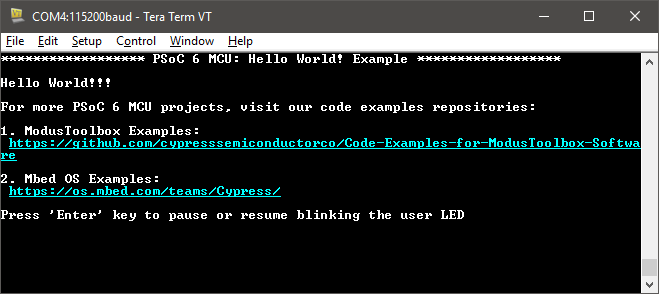
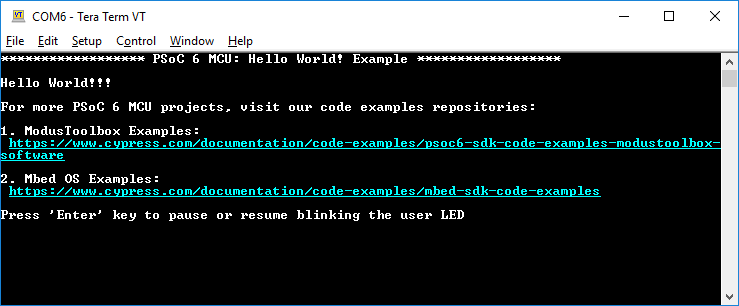
Updated latest-v1.X

Changed region(s): [[0.0, 0.0, 1.0, 1.0], [0.0, 0.2449, 0.1517, 0.3061]]

diff --git a/main.c b/main.c
@@ -7,7 +7,7 @@
 * Related Document: See Readme.md
 *
 *******************************************************************************
-* (c) 2019, Cypress Semiconductor Corporation. All rights reserved.
+* (c) 2019-2020, Cypress Semiconductor Corporation. All rights reserved.
 *******************************************************************************
 * This software, including source code, documentation and related materials
 * ("Software"), is owned by Cypress Semiconductor Corporation or one of its
@@ -112,7 +112,7 @@ int main(void)
     __enable_irq();
 
     /* Initialize retarget-io to use the debug UART port */
-    result = cy_retarget_io_init(CYBSP_DEBUG_UART_TX, CYBSP_DEBUG_UART_RX, \
+    result = cy_retarget_io_init(CYBSP_DEBUG_UART_TX, CYBSP_DEBUG_UART_RX,
                                  CY_RETARGET_IO_BAUDRATE);
 
     /* retarget-io init failed. Stop program execution */
@@ -122,11 +122,10 @@ int main(void)
     }
 
     /* Initialize the User LED */
-    result = cyhal_gpio_init((cyhal_gpio_t) CYBSP_USER_LED, \
-              CYHAL_GPIO_DIR_OUTPUT, CYHAL_GPIO_DRIVE_STRONG, \
-              CYBSP_LED_STATE_OFF);
+    result = cyhal_gpio_init(CYBSP_USER_LED, CYHAL_GPIO_DIR_OUTPUT, 
+                             CYHAL_GPIO_DRIVE_STRONG, CYBSP_LED_STATE_OFF);
 
-    /* gpio init failed. Stop program execution */
+    /* GPIO init failed. Stop program execution */
     if (result != CY_RSLT_SUCCESS)
     {
         CY_ASSERT(0);
@@ -144,11 +143,11 @@ int main(void)
     printf("For more PSoC 6 MCU projects, "
            "visit our code examples repositories:\r\n\n");
 
-    printf("1. ModusToolbox Examples:\r\n https://github.com/"
-           "cypresssemiconductorco/Code-Examples-for-ModusToolbox"
-           "-Software\r\n\n");
+    printf("1. ModusToolbox Examples:\r\n https://www.cypress.com/documentation"
+            "/code-examples/psoc6-sdk-code-examples-modustoolbox-software\r\n\n");
 
-    printf("2. Mbed OS Examples:\r\n https://os.mbed.com/teams/Cypress/\r\n\n");
+    printf("2. Mbed OS Examples:\r\n https://www.cypress.com/documentation/"
+           "code-examples/mbed-sdk-code-examples\r\n\n");
 
     /* Initialize timer to toggle the LED */
     timer_init();
@@ -156,10 +155,10 @@ int main(void)
     printf("Press 'Enter' key to pause or "
            "resume blinking the user LED \r\n\r\n");
 
-    for(;;)
+    for (;;)
     {
         /* Check if 'Enter' key was pressed */
-        if(cyhal_uart_getc(&cy_retarget_io_uart_obj, &uart_read_value, 1) \
+        if (cyhal_uart_getc(&cy_retarget_io_uart_obj, &uart_read_value, 1) 
              == CY_RSLT_SUCCESS)
         {
             if (uart_read_value == '\r')
@@ -179,20 +178,20 @@ int main(void)
                 }
 
                 /* Move cursor to previous line */
-            	printf("\x1b[1F");
+                printf("\x1b[1F");
 
                 led_blink_active_flag ^= 1;
             }
         }
 
         /* Check if timer elapsed (interrupt fired) and toggle the LED */
-        if(timer_interrupt_flag)
+        if (timer_interrupt_flag)
         {
             /* Clear the flag */
             timer_interrupt_flag = false;
 
             /* Invert the USER LED state */
-            cyhal_gpio_toggle((cyhal_gpio_t) CYBSP_USER_LED);
+            cyhal_gpio_toggle(CYBSP_USER_LED);
         }
     }
 }
@@ -214,9 +213,9 @@ int main(void)
 *******************************************************************************/
  void timer_init(void)
  {
-	cy_rslt_t result;
+    cy_rslt_t result;
 
-    const cyhal_timer_cfg_t led_blink_timer_cfg = \
+    const cyhal_timer_cfg_t led_blink_timer_cfg = 
     {
         .compare_value = 0,                 /* Timer compare value, not used */
         .period = LED_BLINK_TIMER_PERIOD,   /* Defines the timer period */
@@ -228,7 +227,7 @@ int main(void)
 
     /* Initialize the timer object. Does not use pin output ('pin' is NC) and
      * does not use a pre-configured clock source ('clk' is NULL). */
-    result = cyhal_timer_init(&led_blink_timer, (cyhal_gpio_t) NC, NULL);
+    result = cyhal_timer_init(&led_blink_timer, NC, NULL);
 
     /* timer init failed. Stop program execution */
     if (result != CY_RSLT_SUCCESS)
@@ -247,8 +246,8 @@ int main(void)
     cyhal_timer_register_callback(&led_blink_timer, isr_timer, NULL);
 
     /* Set the event on which timer interrupt occurs and enable it */
-    cyhal_timer_enable_event(&led_blink_timer, CYHAL_TIMER_IRQ_TERMINAL_COUNT \
-                               , 7, true);
+    cyhal_timer_enable_event(&led_blink_timer, CYHAL_TIMER_IRQ_TERMINAL_COUNT,
+                              7, true);
 
     /* Start the timer with the configured settings */
     cyhal_timer_start(&led_blink_timer);
@@ -262,8 +261,8 @@ int main(void)
 * This is the interrupt handler function for the timer interrupt.
 *
 * Parameters:
-* 	callback_arg	Arguments passed to the interrupt callback
-*	event			Timer/counter interrupt triggers
+*    callback_arg    Arguments passed to the interrupt callback
+*    event            Timer/counter interrupt triggers
 *
 *******************************************************************************/
 static void isr_timer(void *callback_arg, cyhal_timer_event_t event)
@@ -271,7 +270,7 @@ static void isr_timer(void *callback_arg, cyhal_timer_event_t event)
     (void) callback_arg;
     (void) event;
 
-	/* Set the interrupt flag and process it from the main while(1) loop */
+    /* Set the interrupt flag and process it from the main while(1) loop */
     timer_interrupt_flag = true;
 }
 

diff --git a/README.md b/README.md
@@ -4,9 +4,9 @@ This code example demonstrates simple UART communication by printing a "Hello Wo
 
 ## Requirements
 
-- [ModusToolbox™ IDE](https://www.cypress.com/products/modustoolbox-software-environment) v2.0
+- [ModusToolbox™ software](https://www.cypress.com/products/modustoolbox-software-environment) v2.1
 - Programming Language: C
-- Associated Parts: All [PSoC® 6 MCU](http://www.cypress.com/PSoC6) parts
+- Associated Parts: All [PSoC 6 MCU](http://www.cypress.com/PSoC6) parts
 
 ## Supported Kits
 
@@ -15,10 +15,13 @@ This code example demonstrates simple UART communication by printing a "Hello Wo
 - [PSoC 6 BLE Pioneer Kit](https://www.cypress.com/CY8CKIT-062-BLE) (CY8CKIT-062-BLE)
 - [PSoC 6 BLE Prototyping Kit](https://www.cypress.com/CY8CPROTO-063-BLE) (CY8CPROTO-063-BLE)
 - [PSoC 62S2 Wi-Fi BT Pioneer Kit](https://www.cypress.com/CY8CKIT-062S2-43012) (CY8CKIT-062S2-43012)
+- [PSoC 62S1 Wi-Fi BT Pioneer Kit](https://www.cypress.com/CYW9P62S1-43438EVB-01) (CYW9P62S1-43438EVB-01)
+- [PSoC 62S1 Wi-Fi BT Pioneer Kit](https://www.cypress.com/CYW9P62S1-43012EVB-01) (CYW9P62S1-43012EVB-01)
+- [PSoC 62S3 Wi-Fi BT Prototyping Kit](https://www.cypress.com/CY8CPROTO-062S3-4343W) (CY8CPROTO-062S3-4343W)
 
 ## Hardware Setup
 
-This example uses the board's default configuration. See the kit user guide to ensure the board is configured correctly.
+This example uses the board's default configuration. See the kit user guide to ensure that the board is configured correctly.
 
 **Note**: The PSoC 6 BLE Pioneer Kit and the PSoC 6 WiFi-BT Pioneer Kit ship with KitProg2 installed. ModusToolbox software requires KitProg3. Before using this code example, make sure that the board is upgraded to KitProg3. The tool and instructions are available in the [Firmware Loader](https://github.com/cypresssemiconductorco/Firmware-loader) GitHub repository. If you do not upgrade, you will see an error like "unable to find CMSIS-DAP device" or "KitProg firmware is out of date".
 
@@ -28,31 +31,43 @@ Install a terminal emulator if you don't have one. Instructions in this document
 
 ## Using the Code Example
 
-### In ModusToolbox IDE:
+### In Eclipse IDE for ModusToolbox:
 
-1. Click the **New Application** link in the Quick Panel (or, use **File > New > ModusToolbox IDE Application**).
+1. Click the **New Application** link in the Quick Panel (or, use **File** > **New** > **ModusToolbox Application**).
 
-2. Pick a kit supported by the code example from the list shown in the **IDE Application** dialog.
+2. Pick a kit supported by the code example from the list shown in the **Project Creator - Choose Board Support Package (BSP)** dialog.
 
-   When you select a supported kit, the example is reconfigured automatically to work with the kit. To work with a different supported kit later, use the **Library Manager** to choose the BSP for the supported kit. You can use the Library Manager to select or update the BSP and firmware libraries used in this application. To access the Library Manager, right-click the application name from the Project Workspace window in the IDE, and select **ModusToolbox > Library Manager**. For more details, see the IDE User Guide: *{ModusToolbox install directory}/ide_2.0/docs/mt_ide_user_guide.pdf*.
+   When you select a supported kit, the example is reconfigured automatically to work with the kit. To work with a different supported kit later, use the **Library Manager** to choose the BSP for the supported kit. You can use the Library Manager to select or update the BSP and firmware libraries used in this application. To access the Library Manager, right-click the application name from the Project Workspace window in the IDE, and select **ModusToolbox** > **Library Manager**.
 
    You can also just start the application creation process again and select a different kit.
 
    If you want to use the application for a kit not listed here, you may need to update source files. If the kit does not have the required resources, the application may not work.
 
-3. In the **Starter Application** window, choose the example.
+3. In the **Project Creator - Choose Board Support Package (BSP)** dialog, choose the example.
 
-4. Click **Next** and complete the application creation process.
+4. Optionally, update the **Application Name:** and **Location** fields with the application name and local path where application is created.
 
-See [Importing Code Example into ModusToolbox IDE - KBA225201](https://community.cypress.com/docs/DOC-15968) for details.
+5. Click **Create** and complete the application creation process.
+
+For more details, see the Eclipse IDE for ModusToolbox User Guide: *{ModusToolbox install directory}/ide_{version}/docs/mt_ide_user_guide.pdf*.
 
 ### In Command-line Interface (CLI):
 
 1. Download and unzip this repository onto your local machine, or clone the repository.
 
-2. Open a CLI terminal and navigate to the application folder.
+2. Open a CLI terminal and navigate to the application folder. On Linux and macOS, you can use any terminal application. On Windows, navigate to the modus-shell directory (*{ModusToolbox install directory}/tools_\<version>/modus-shell*) and run Cygwin.bat.
 
 3. Import required libraries by executing the `make getlibs` command.
+
+### In Third-party IDEs:
+
+1. Follow instructions from the CLI section to download or clone the repository, and import libraries using `make getlibs` command.
+
+2. Export the application to a supported IDE using the `make <ide>` command.
+
+3. Follow instructions displayed in the terminal to create or import the application as an IDE project.
+
+For more details, see *Exporting to IDEs* section of the ModusToolbox User Guide: *{ModusToolbox install directory}/ide_{version}/docs/mtb_user_guide.pdf*.
 
 ## Operation
 
@@ -62,12 +77,13 @@ See [Importing Code Example into ModusToolbox IDE - KBA225201](https://community
 
 3. Program the board.
 
-   ### Using ModusToolbox IDE:
+   ### Using Eclipse IDE for ModusToolbox:
 
    1. Select the application project in the Project Explorer.
-   2. In the **Quick Panel**, scroll down, and click **Hello_World Program (KitProg3)**.
 
-   ### Using CLI
+   2. In the **Quick Panel**, scroll down, and click **\<Application Name> Program (KitProg3)**.
+
+   ### Using CLI:
 
    1. From the terminal, execute the `make program` command to build and program the application using the default toolchain to the default target. You can specify a target and toolchain manually:
         ```
@@ -76,9 +92,9 @@ See [Importing Code Example into ModusToolbox IDE - KBA225201](https://community
         Example:
 
         ```
-        make program TARGET=CY8CKIT-062-WIFI-BT TOOLCHAIN=GCC_ARM
+        make program TARGET=CY8CPROTO-062-4343W TOOLCHAIN=GCC_ARM
         ```
-        **Note**:  Before building the application, ensure that the *libs* folder contains the BSP file (*TARGET_xxx.lib*) corresponding to the TARGET. Execute the `make getlibs` command to fetch the BSP contents before building the application.
+        **Note**:  Before building the application, ensure that the *deps* folder contains the BSP file (*TARGET_xxx.lib*) corresponding to the TARGET. Execute the `make getlibs` command to fetch the BSP contents before building the application.
 
    After programming, the application starts automatically. Confirm that "Hello World!!!" and other text is displayed on the UART terminal as shown in [Figure 1](#figure-1-hello-world-in-terminal).
 
@@ -96,7 +112,7 @@ See [Importing Code Example into ModusToolbox IDE - KBA225201](https://community
 
 ## Debugging
 
-You can debug the example to step through the code. In the ModusToolbox IDE, use the **Hello_World Debug (KitProg3)** configuration in the **Quick Panel**. See [Debugging a PSoC 6 MCU ModusToolbox Project - KBA224621](https://community.cypress.com/docs/DOC-15763) for details.
+You can debug the example to step through the code. In the IDE, use the **\<Application Name> Debug (KitProg3)** configuration in the **Quick Panel**. For more details, see *Program and Debug* section in the Eclipse IDE for ModusToolbox User Guide: *{ModusToolbox install directory}/ide_{version}/docs/mt_ide_user_guide.pdf*.
 
 ## Design and Implementation
 
@@ -109,7 +125,7 @@ You can debug the example to step through the code. In the ModusToolbox IDE, use
 | :------- | :------------    | :------------ |
 | Timer (HAL) | led_blink_timer | Timer HAL object used for periodic interrupt generation |
 | UART (HAL) |cy_retarget_io_uart_obj| UART HAL object used by Retarget-IO for Debug UART port |
-| LED (BSP) | CYBSP_USER_LED | User LED to show output |
+| GPIO (HAL)    | CYBSP_USER_LED         |  User LED to show visual output                  |
 
 This example uses the Arm® Cortex®-M4 (CM4) CPU of PSoC 6 MCU to execute two tasks: UART communication and LED control. At device reset, the default Cortex-M0+ (CM0+) application enables the CM4 CPU and configures the CM0+ CPU to go to sleep.
 
@@ -121,7 +137,8 @@ cy_retarget_io_init(CYBSP_DEBUG_UART_TX, CYBSP_DEBUG_UART_RX, CY_RETARGET_IO_BAU
 
 After using `cy_retarget_io_init`, messages can be printed on the terminal simply using `printf` commands.
 
-A Timer HAL resource is configured to generate a periodic interrupt to set a flag, using which an LED is toggled. The `timer_init` function uses Timer HAL functions `cyhal_timer_init`, `cyhal_timer_configure` and `cyhal_timer_set_frequency` to create a Timer that counts up to `LED_BLINK_TIMER_PERIOD = 9999` using a clock configured with a frequency of `LED_BLINK_TIMER_CLOCK_HZ = 10000`. `cyhal_timer_enable_event` is used to enable generation of an event on the terminal count and `cyhal_timer_register_callback` is used to register a callback to the `isr_timer` function when the event occurs. A flag is set from the ISR, and processed in the main loop to toggle the user LED.
+A Timer HAL resource is configured to generate a periodic interrupt to set a flag, using which an LED is toggled. The `timer_init` function uses Timer HAL functions `cyhal_timer_init`, `cyhal_timer_configure` and `cyhal_timer_set_frequency` to create a Timer that counts up to `LED_BLINK_TIMER_PERIOD = 9999` using a clock configured with a frequency of `LED_BLINK_TIMER_CLOCK_HZ = 10000`. 
+`cyhal_timer_enable_event` is used to enable generation of an event on the terminal count and `cyhal_timer_register_callback` is used to register a callback to the `isr_timer` function when the event occurs. A flag is set in the ISR, and processed in the main loop to toggle the user LED.
 
 The main loop also looks for user input from the terminal using the HAL function `cyhal_uart_getc`. When the user presses the Enter key on the terminal, the LED stops blinking. Pressing Enter again resumes LED blinking, and this cycle can be repeated.
 
@@ -134,21 +151,24 @@ The main loop also looks for user input from the terminal using the HAL function
 | [AN210781](https://www.cypress.com/AN210781) – Getting Started with PSoC 6 MCU with Bluetooth Low Energy (BLE) Connectivity on PSoC Creator | Describes PSoC 6 MCU with BLE Connectivity devices and how to build your first application with PSoC Creator |
 | [AN215656](https://www.cypress.com/AN215656) – PSoC 6 MCU: Dual-CPU System Design | Describes the dual-CPU architecture in PSoC 6 MCU, and shows how to build a simple dual-CPU design |
 | **Code Examples**                                            |                                                              |
-| [Using ModusToolbox IDE](https://github.com/cypresssemiconductorco/Code-Examples-for-ModusToolbox-Software) | [Using PSoC Creator](https://www.cypress.com/documentation/code-examples/psoc-6-mcu-code-examples) |
+| [Using ModusToolbox](https://github.com/cypresssemiconductorco/Code-Examples-for-ModusToolbox-Software) | [Using PSoC Creator](https://www.cypress.com/documentation/code-examples/psoc-6-mcu-code-examples) |
 | **Device Documentation**                                     |                                                              |
 | [PSoC 6 MCU Datasheets](https://www.cypress.com/search/all?f[0]=meta_type%3Atechnical_documents&f[1]=resource_meta_type%3A575&f[2]=field_related_products%3A114026) | [PSoC 6 Technical Reference Manuals](https://www.cypress.com/search/all/PSoC%206%20Technical%20Reference%20Manual?f[0]=meta_type%3Atechnical_documents&f[1]=resource_meta_type%3A583) |
-| **Development Kits**                                         | Buy at Cypress.com                                     |
+| **Development Kits**                                         | Buy at www.cypress.com                                       |
 | [CY8CKIT-062-BLE](https://www.cypress.com/CY8CKIT-062-BLE) PSoC 6 BLE Pioneer Kit | [CY8CKIT-062-WiFi-BT](https://www.cypress.com/CY8CKIT-062-WiFi-BT) PSoC 6 WiFi-BT Pioneer Kit |
-| [CY8CPROTO-063-BLE](https://www.cypress.com/CY8CPROTO-063-BLE) PSoC 6 BLE Prototyping Kit | [CY8CPROTO-062-4343W](https://www.cypress.com/cy8cproto-062-4343w) PSoC 6 Wi-Fi BT Prototyping Kit |
-| [CY8CKIT-062S2-43012](https://www.cypress.com/CY8CKIT-062S2-43012) PSoC 62S2 Wi-Fi BT Pioneer Kit | |
-| **Libraries**                                                |                |
-| Cypress Hardware Abstraction Layer Library and docs          | [psoc6hal](https://github.com/cypresssemiconductorco/psoc6hal) on GitHub |
-| RetargetIO - Library for redirecting low level IO commands to allow sending messages via standard printf/scanf functions over a UART connection | [retarget-io](https://github.com/cypresssemiconductorco/retarget-io) on GitHub |
+| [CY8CPROTO-063-BLE](https://www.cypress.com/CY8CPROTO-063-BLE) PSoC 6 BLE Prototyping Kit | [CY8CPROTO-062-4343W](https://www.cypress.com/CY8CPROTO-062-4343W) PSoC 6 Wi-Fi BT Prototyping Kit |
+| [CY8CKIT-062S2-43012](https://www.cypress.com/CY8CKIT-062S2-43012) PSoC 62S2 Wi-Fi BT Pioneer Kit | [CY8CPROTO-062S3-4343W](https://www.cypress.com/CY8CPROTO-062S3-4343W) PSoC 62S3 Wi-Fi BT Prototyping Kit |
+| [CYW9P62S1-43438EVB-01](https://www.cypress.com/CYW9P62S1-43438EVB-01) PSoC 62S1 Wi-Fi BT Pioneer Kit | [CYW9P62S1-43012EVB-01](https://www.cypress.com/CYW9P62S1-43012EVB-01) PSoC 62S1 Wi-Fi BT Pioneer Kit |                                                              |
+| **Libraries**                                                 |                                                              |
+| PSoC 6 Peripheral Driver Library (PDL) and docs                    | [psoc6pdl](https://github.com/cypresssemiconductorco/psoc6pdl) on GitHub |
+| Cypress Hardware Abstraction Layer (HAL) Library and docs          | [psoc6hal](https://github.com/cypresssemiconductorco/psoc6hal) on GitHub |
+| RetargetIO - A utility library to retarget the standard input/output (STDIO) messages to a UART port | [retarget-io](https://github.com/cypresssemiconductorco/retarget-io) on GitHub |
 | **Middleware**                                               |                                                              |
-| Links to all PSoC 6 Middleware                               | [psoc6-middleware](https://github.com/cypresssemiconductorco/psoc6-middleware) on GitHub |
+| CapSense library and docs                                    | [capsense](https://github.com/cypresssemiconductorco/capsense) on GitHub |
+| Links to all PSoC 6 MCU Middleware                           | [psoc6-middleware](https://github.com/cypresssemiconductorco/psoc6-middleware) on GitHub |
 | **Tools**                                                    |                                                              |
-| [ModusToolbox IDE](https://www.cypress.com/modustoolbox)     | The Cypress IDE for PSoC 6 and IoT designers                 |
-| [PSoC Creator](https://www.cypress.com/products/psoc-creator-integrated-design-environment-ide) | The Cypress IDE for PSoC and FM0+ development                |
+| [Eclipse IDE for ModusToolbox](https://www.cypress.com/modustoolbox)     | The multi-platform, Eclipse-based Integrated Development Environment (IDE) that supports application configuration and development for PSoC 6 MCU and IoT designers.             |
+| [PSoC Creator](https://www.cypress.com/products/psoc-creator-integrated-design-environment-ide) | The Cypress IDE for PSoC and FM0+ MCU development.            |
 
 ## Other Resources
 
@@ -163,6 +183,7 @@ Document Title: CE221773 - PSoC 6 MCU: Hello World
 | Version | Description of Change |
 | ------- | --------------------- |
 | 1.0.0   | New code example      |
+| 1.1.0   | Updated to support ModusToolbox software v2.1, add new kits<br> Cosmetic changes to code  |
 
 ------
 
@@ -172,6 +193,6 @@ All other trademarks or registered trademarks referenced herein are the property
 
 -------------------------------------------------------------------------------
 
-© Cypress Semiconductor Corporation, 2019. This document is the property of Cypress Semiconductor Corporation and its subsidiaries ("Cypress"). This document, including any software or firmware included or referenced in this document ("Software"), is owned by Cypress under the intellectual property laws and treaties of the United States and other countries worldwide. Cypress reserves all rights under such laws and treaties and does not, except as specifically stated in this paragraph, grant any license under its patents, copyrights, trademarks, or other intellectual property rights. If the Software is not accompanied by a license agreement and you do not otherwise have a written agreement with Cypress governing the use of the Software, then Cypress hereby grants you a personal, non-exclusive, nontransferable license (without the right to sublicense) (1) under its copyright rights in the Software (a) for Software provided in source code form, to modify and reproduce the Software solely for use with Cypress hardware products, only internally within your organization, and (b) to distribute the Software in binary code form externally to end users (either directly or indirectly through resellers and distributors), solely for use on Cypress hardware product units, and (2) under those claims of Cypress's patents that are infringed by the Software (as provided by Cypress, unmodified) to make, use, distribute, and import the Software solely for use with Cypress hardware products. Any other use, reproduction, modification, translation, or compilation of the Software is prohibited.  
+© Cypress Semiconductor Corporation, 2019-2020. This document is the property of Cypress Semiconductor Corporation and its subsidiaries ("Cypress"). This document, including any software or firmware included or referenced in this document ("Software"), is owned by Cypress under the intellectual property laws and treaties of the United States and other countries worldwide. Cypress reserves all rights under such laws and treaties and does not, except as specifically stated in this paragraph, grant any license under its patents, copyrights, trademarks, or other intellectual property rights. If the Software is not accompanied by a license agreement and you do not otherwise have a written agreement with Cypress governing the use of the Software, then Cypress hereby grants you a personal, non-exclusive, nontransferable license (without the right to sublicense) (1) under its copyright rights in the Software (a) for Software provided in source code form, to modify and reproduce the Software solely for use with Cypress hardware products, only internally within your organization, and (b) to distribute the Software in binary code form externally to end users (either directly or indirectly through resellers and distributors), solely for use on Cypress hardware product units, and (2) under those claims of Cypress's patents that are infringed by the Software (as provided by Cypress, unmodified) to make, use, distribute, and import the Software solely for use with Cypress hardware products. Any other use, reproduction, modification, translation, or compilation of the Software is prohibited.  
 TO THE EXTENT PERMITTED BY APPLICABLE LAW, CYPRESS MAKES NO WARRANTY OF ANY KIND, EXPRESS OR IMPLIED, WITH REGARD TO THIS DOCUMENT OR ANY SOFTWARE OR ACCOMPANYING HARDWARE, INCLUDING, BUT NOT LIMITED TO, THE IMPLIED WARRANTIES OF MERCHANTABILITY AND FITNESS FOR A PARTICULAR PURPOSE. No computing device can be absolutely secure. Therefore, despite security measures implemented in Cypress hardware or software products, Cypress shall have no liability arising out of any security breach, such as unauthorized access to or use of a Cypress product. CYPRESS DOES NOT REPRESENT, WARRANT, OR GUARANTEE THAT CYPRESS PRODUCTS, OR SYSTEMS CREATED USING CYPRESS PRODUCTS, WILL BE FREE FROM CORRUPTION, ATTACK, VIRUSES, INTERFERENCE, HACKING, DATA LOSS OR THEFT, OR OTHER SECURITY INTRUSION (collectively, "Security Breach"). Cypress disclaims any liability relating to any Security Breach, and you shall and hereby do release Cypress from any claim, damage, or other liability arising from any Security Breach. In addition, the products described in these materials may contain design defects or errors known as errata which may cause the product to deviate from published specifications. To the extent permitted by applicable law, Cypress reserves the right to make changes to this document without further notice. Cypress does not assume any liability arising out of the application or use of any product or circuit described in this document. Any information provided in this document, including any sample design information or programming code, is provided only for reference purposes. It is the responsibility of the user of this document to properly design, program, and test the functionality and safety of any application made of this information and any resulting product. "High-Risk Device" means any device or system whose failure could cause personal injury, death, or property damage. Examples of High-Risk Devices are weapons, nuclear installations, surgical implants, and other medical devices. "Critical Component" means any component of a High-Risk Device whose failure to perform can be reasonably expected to cause, directly or indirectly, the failure of the High-Risk Device, or to affect its safety or effectiveness. Cypress is not liable, in whole or in part, and you shall and hereby do release Cypress from any claim, damage, or other liability arising from any use of a Cypress product as a Critical Component in a High-Risk Device. You shall indemnify and hold Cypress, its directors, officers, employees, agents, affiliates, distributors, and assigns harmless from and against all claims, costs, damages, and expenses, arising out of any claim, including claims for product liability, personal injury or death, or property damage arising from any use of a Cypress product as a Critical Component in a High-Risk Device. Cypress products are not intended or authorized for use as a Critical Component in any High-Risk Device except to the limited extent that (i) Cypress's published data sheet for the product explicitly states Cypress has qualified the product for use in a specific High-Risk Device, or (ii) Cypress has given you advance written authorization to use the product as a Critical Component in the specific High-Risk Device and you have signed a separate indemnification agreement.  
 Cypress, the Cypress logo, Spansion, the Spansion logo, and combinations thereof, WICED, PSoC, CapSense, EZ-USB, F-RAM, and Traveo are trademarks or registered trademarks of Cypress in the United States and other countries. For a more complete list of Cypress trademarks, visit cypress.com. Other names and brands may be claimed as property of their respective owners.
